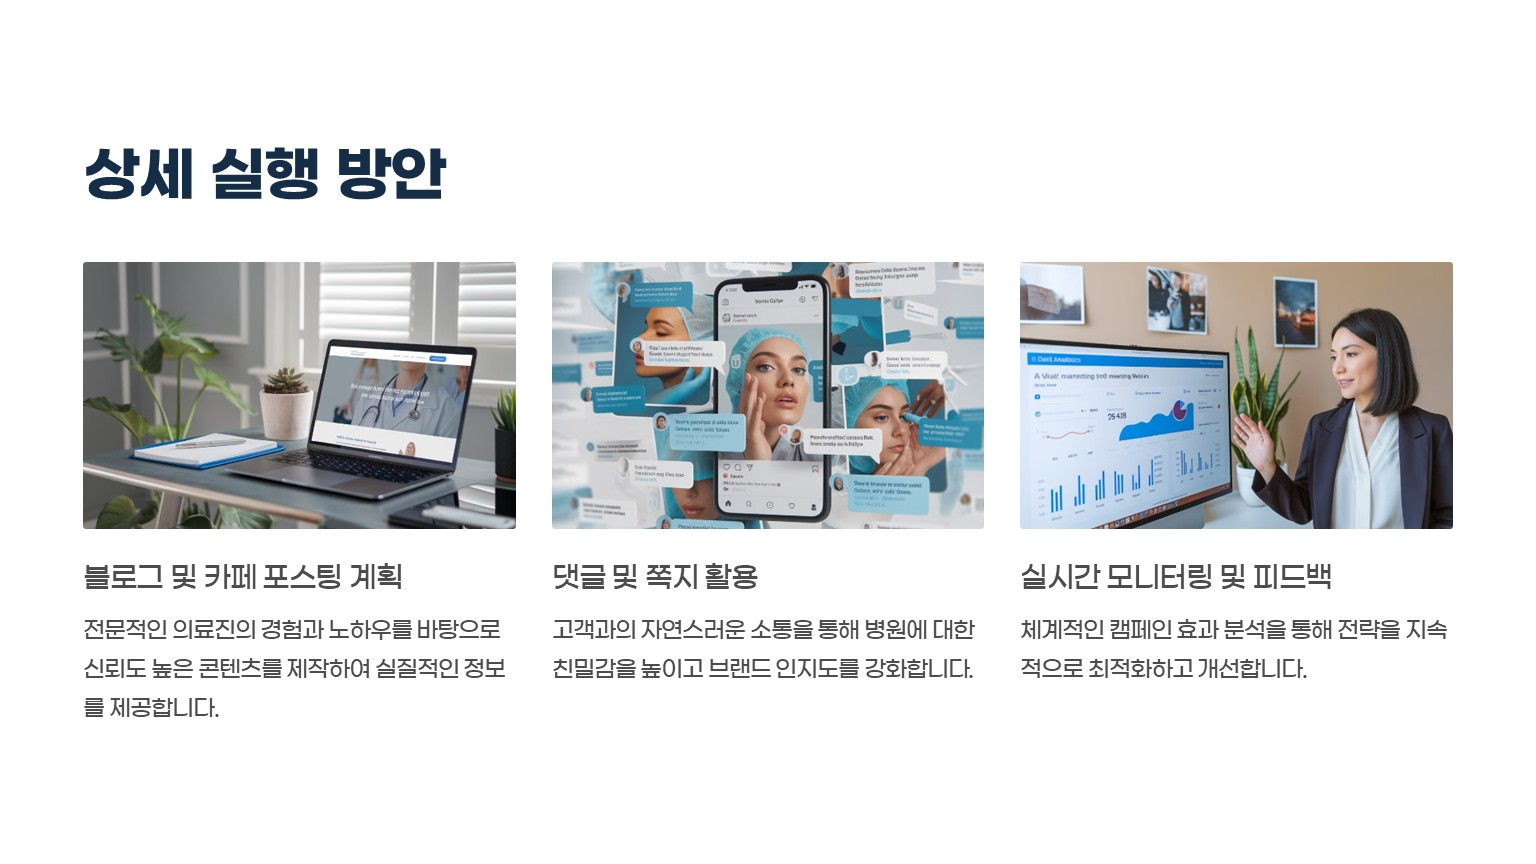
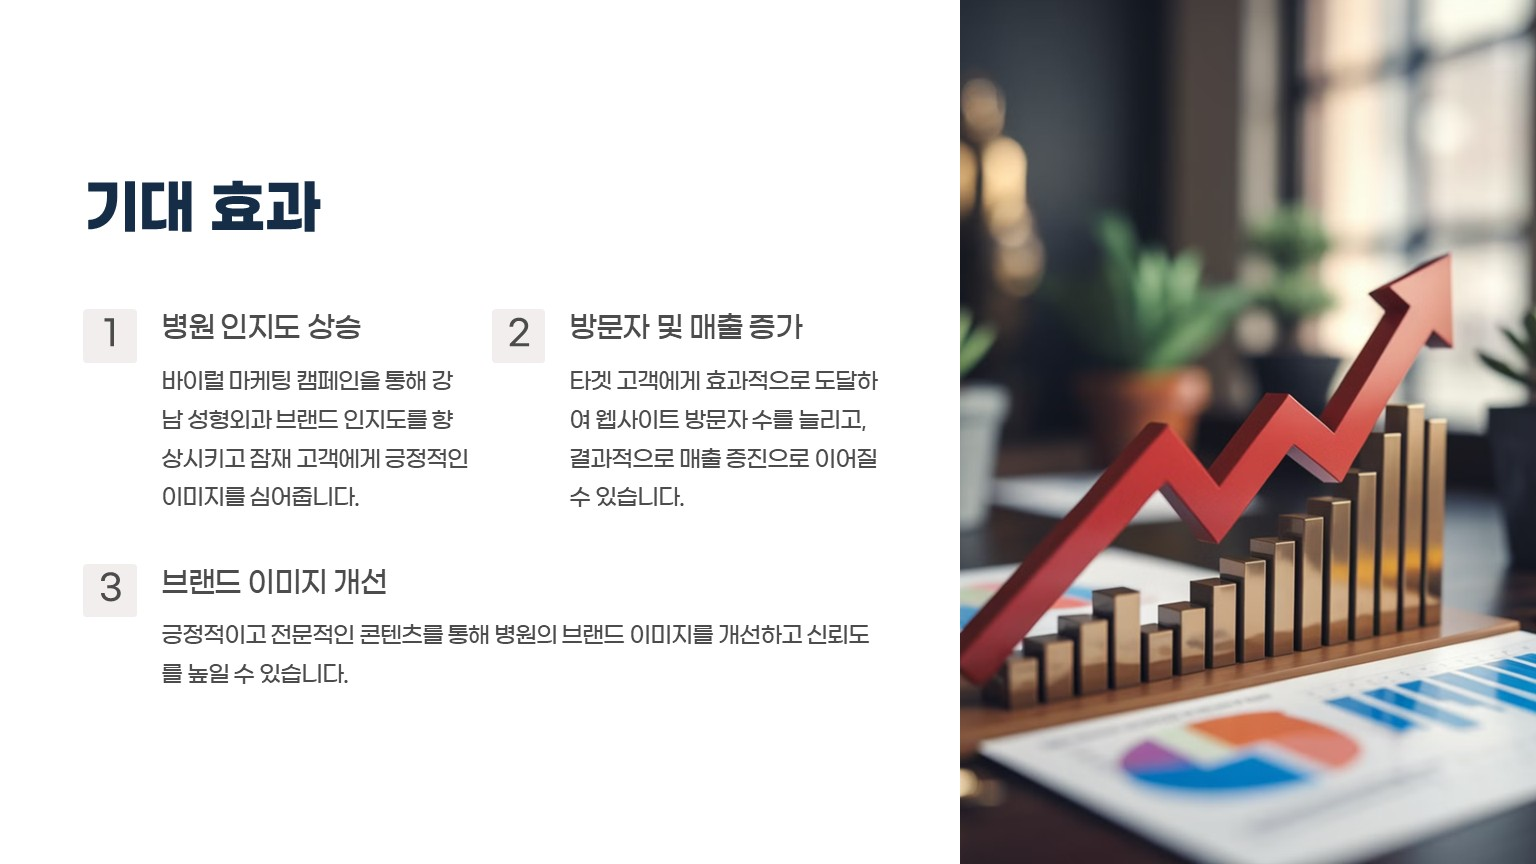
Update 00 landing images

diff --git a/lib/landing.ts b/lib/landing.ts
@@ -28,7 +28,7 @@ export const LANDING_CONFIG: Record<string, LandingConfig> = {
     introPath: "/intro/00",
     submitLabel: "문의 사례 받아보기",
     mobileSubmitLabel: "문의 사례 받아보기",
-    pageCount: 10,
+    pageCount: 7,
     telegramChatId: process.env.TELEGRAM_CHAT_ID_00,
 
     businessName: "비엔파트너스",
